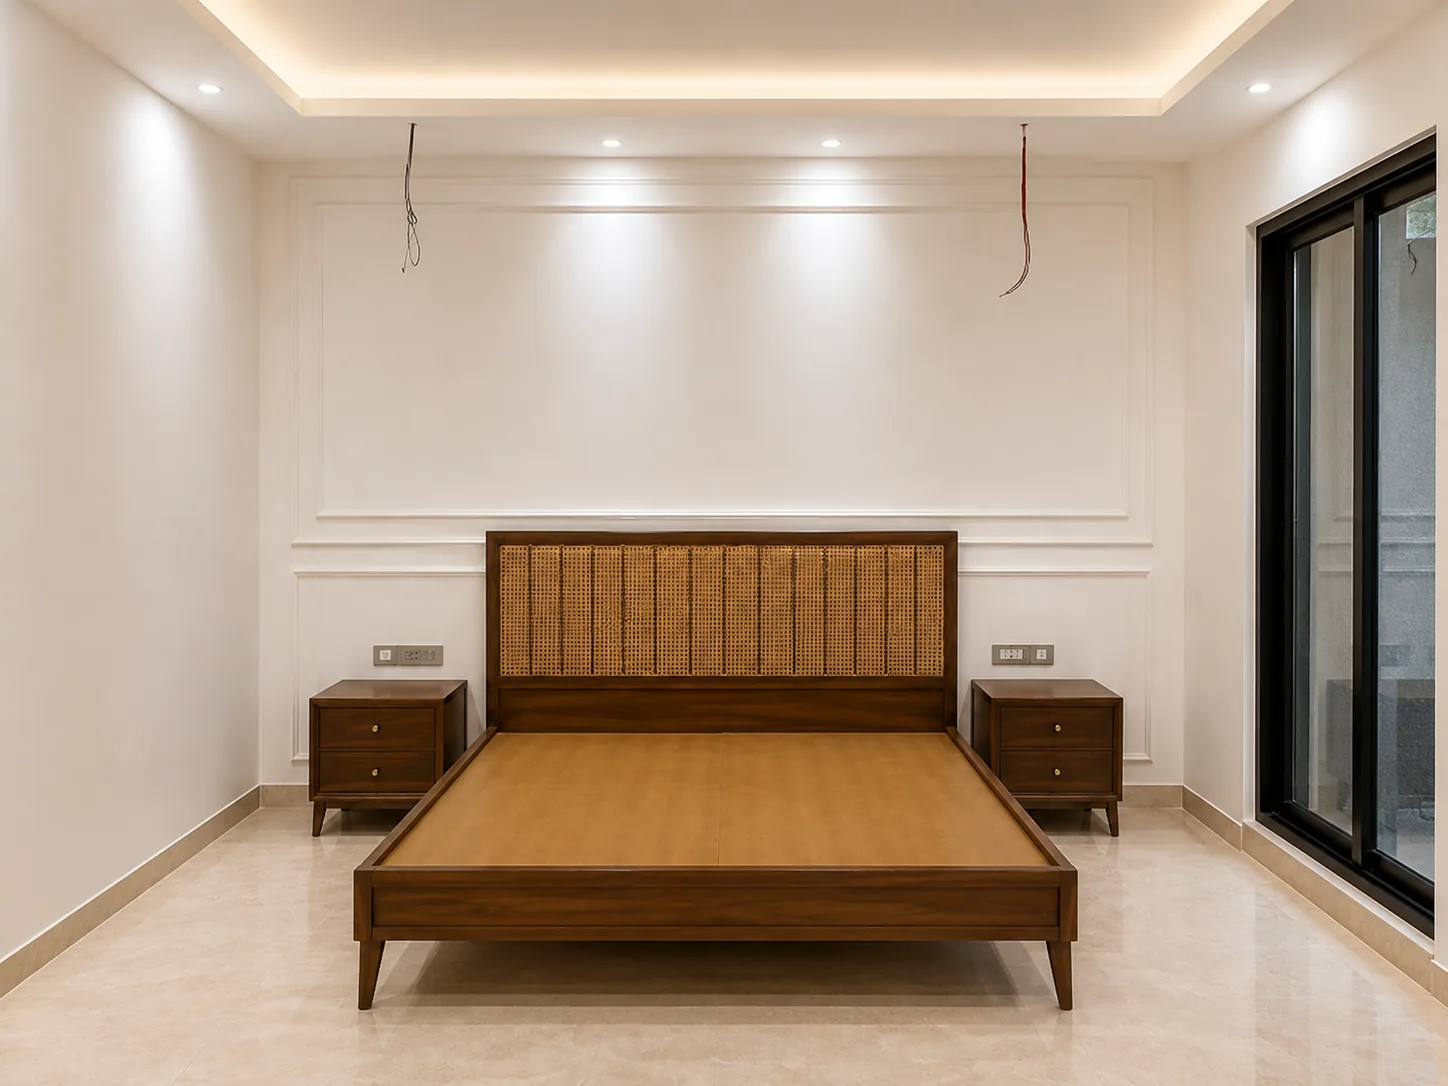
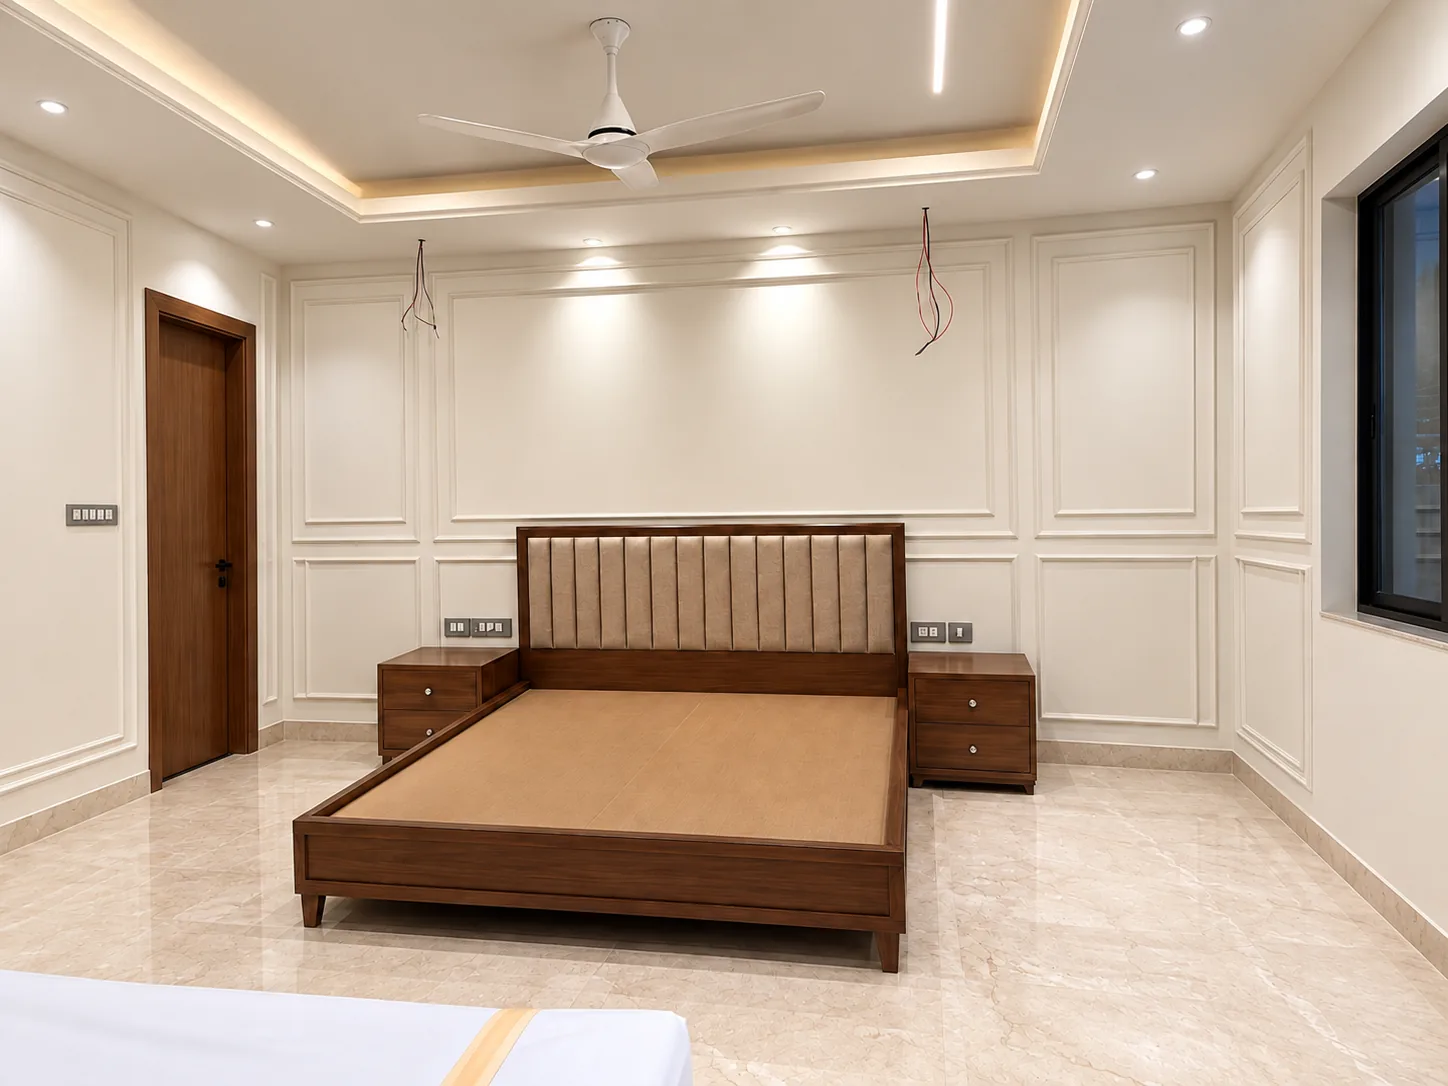
updated

diff --git a/src/components/CuratedCategories/index.js b/src/components/CuratedCategories/index.js
@@ -53,7 +53,7 @@ const categoriesData = [
         id: 7,
         title: "7. Custom Beds",
         description: "Personalized bed designs created around your space and style.",
-        image: "/beds/bed9.webp"
+        image: "/beds/bed09.webp"
       }
     ]
   },
